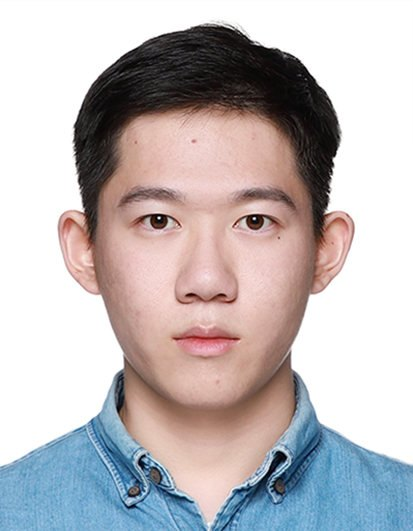
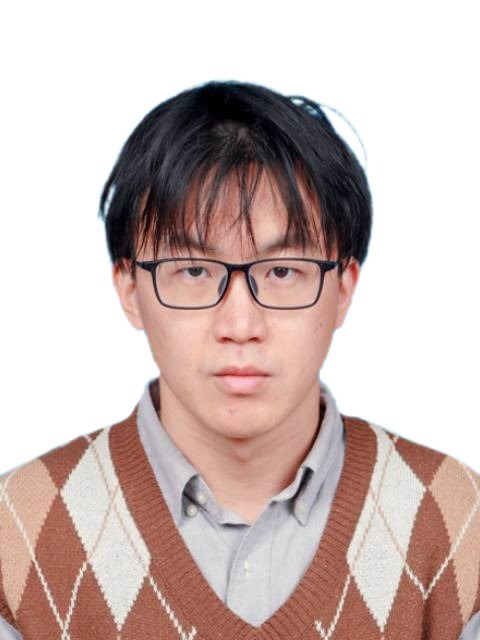
王奕诚信息补全：2026级、上海交通大学、方向类脑算法·具身智能 + 新照片

diff --git a/index.html b/index.html
@@ -9,7 +9,7 @@
 <link rel="icon" type="image/png" sizes="32x32" href="favicon-32.png">
 <link rel="shortcut icon" href="favicon.ico">
 <link rel="apple-touch-icon" href="apple-touch-icon.png">
-<link rel="stylesheet" href="css/style.css?v=81">
+<link rel="stylesheet" href="css/style.css?v=82">
 </head>
 <body>
 
@@ -243,11 +243,11 @@
         </div>
 
                 <div class="member-card" data-reveal><svg class="mc-frame" viewBox="0 0 100 100" preserveAspectRatio="none" aria-hidden="true"><path d="M1.4,3.1 L15.4,2.5 L26.9,2.8 L37.2,2.8 L50.2,1.6 L60.7,2.9 L72.8,1.8 L85.6,3.4 L97.6,3.3 L97.5,10.1 L97.6,20.2 L97.6,31.3 L98.0,39.5 L96.9,49.6 L96.5,59.7 L96.5,69.2 L97.4,78.0 L97.1,88.5 L97.7,97.7 L84.9,99.0 L73.5,97.2 L62.3,97.4 L49.3,98.4 L37.5,99.3 L26.5,99.4 L14.1,99.6 L1.7,99.4 L1.2,89.0 L1.7,77.9 L3.4,69.0 L3.1,60.8 L3.6,50.8 L1.6,41.4 L2.4,30.0 L2.8,21.7 L3.9,10.4" stroke="currentColor" stroke-width="1.7" fill="none" stroke-linecap="round" stroke-linejoin="round" vector-effect="non-scaling-stroke"/><path d="M0.1,1.6 L14.2,1.4 L25.6,3.8 L37.5,1.4 L50.1,1.4 L59.5,2.9 L72.4,0.7 L85.6,3.6 L98.6,3.5 L96.8,10.9 L98.2,19.5 L98.3,30.7 L98.5,40.3 L96.4,51.1 L95.5,59.6 L97.1,68.0 L98.1,77.4 L96.1,88.2" stroke="currentColor" stroke-width="1.1" fill="none" opacity="0.35" stroke-linecap="round" vector-effect="non-scaling-stroke"/></svg>
-          <span class="ph-photo-sketch"><img src="img/members/wangyicheng.jpg" alt="王奕诚" class="pos-a"></span>
+          <span class="ph-photo-sketch"><img src="img/members/wangyicheng.jpg?v=2" alt="王奕诚" class="pos-a"></span>
           <div class="mc-info">
             <h3>王奕诚 <span class="mc-role">博士</span></h3>
-            <p class="mc-meta"><span class="mc-v">2026 级</span><span class="mc-v">北京航空航天大学</span></p>
-            <p class="mc-dir"><span class="mc-todo">方向待定</span></p>
+            <p class="mc-meta"><span class="mc-v">2026 级</span><span class="mc-v">上海交通大学</span></p>
+            <p class="mc-dir">类脑算法 · 具身智能</p>
           </div>
         </div>
 
@@ -459,6 +459,6 @@
 <script src="js/deck.js?v=12"></script>
 <script src="js/amp.js?v=12"></script>
 <script src="js/map.js?v=23"></script>
-<script src="js/i18n.js?v=20"></script>
+<script src="js/i18n.js?v=21"></script>
 </body>
 </html>

diff --git a/js/i18n.js b/js/i18n.js
@@ -65,6 +65,8 @@
     "华东师范大学": "East China Normal University",
     "东南大学": "Southeast University",
     "中山大学": "Sun Yat-sen University",
+    "上海交通大学": "Shanghai Jiao Tong University",
+    "类脑算法 · 具身智能": "Brain-inspired algorithms \u00b7 Embodied intelligence",
     "帮你想出不一样的点子": "Helps you come up with delightfully different ideas",
     "彩蛋": "Easter Eggs",
     "人员课题图谱": "Member\u2013Topic Map",
